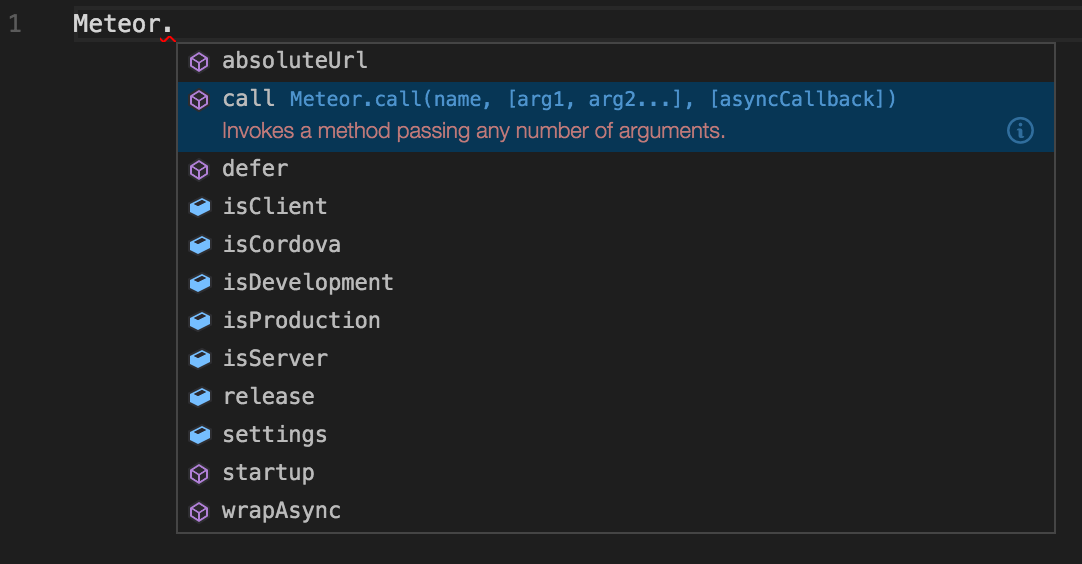
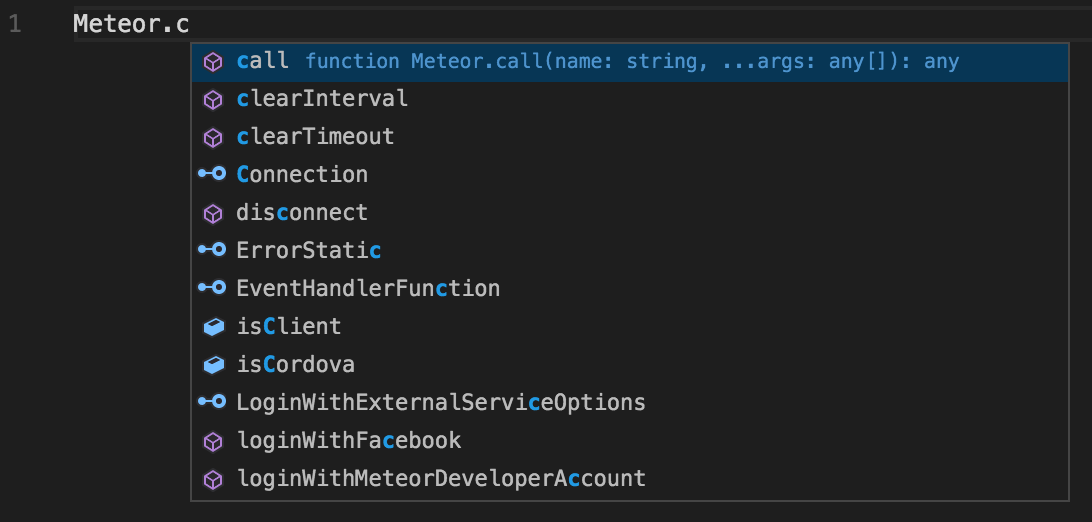
Updated README

Changed region(s): [[0.061, 0.0307, 1.0, 0.9808]]

diff --git a/README.md b/README.md
@@ -2,7 +2,7 @@
 
 This extension brings support for Meteor to Visual Studio Code. The goal is to create an extension with complete support specific to Meteor.
 
-> It's currently under development and the set of features is limited. See the list below for more details.
+> It's currently under development and the set of features is limited. See below for more details.
 
 ## Features
 
@@ -10,7 +10,10 @@ This extension brings support for Meteor to Visual Studio Code. The goal is to c
 
 This extension provides typings for the whole Meteor API. It includes the typings from [meteor-typings](https://github.com/meteor-typings/meteor).
 
+With typings you get auto complete and also information about parameters in function calls.
+
 ![auto complete](/images/autocomplete.png)
+![parameter info](/images/signature.png)
 
 > Some declarations are currently missing. Also inline documentation is currently not provided. Will be definitely completed.
 
